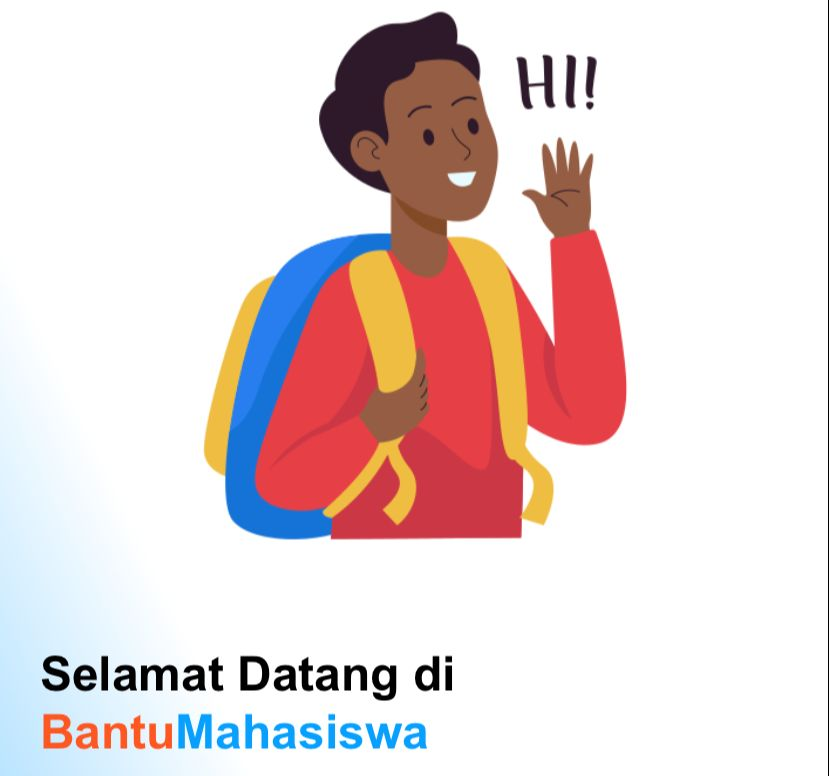
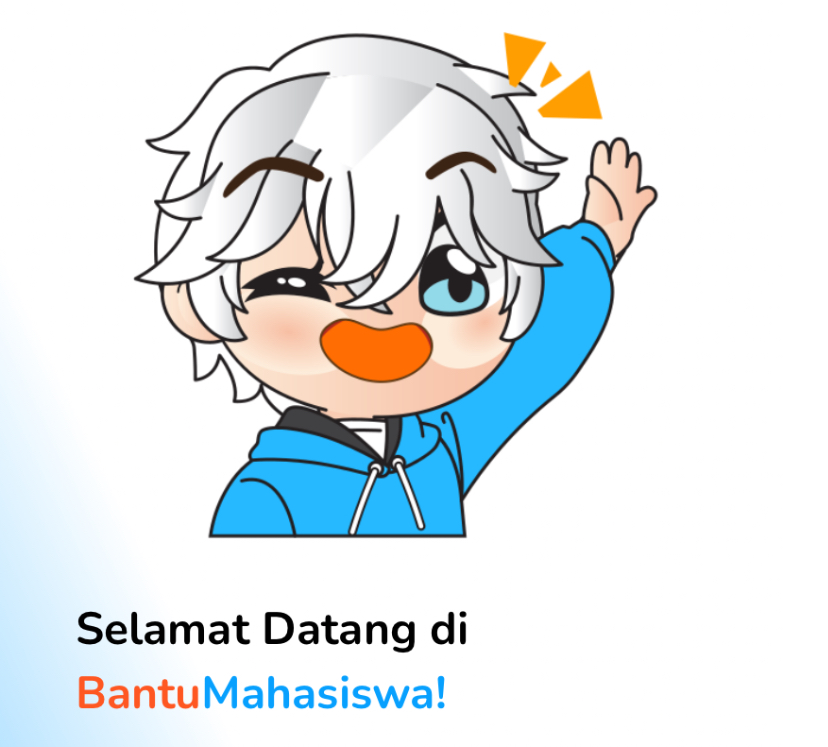
refactor: Remove duplicate content in Dashboard component

diff --git a/bantumahasiswa/src/dashboard.css b/bantumahasiswa/src/dashboard.css
@@ -9,13 +9,16 @@
   z-index: 1000;
   box-shadow: 0 2px 4px rgba(0, 0, 0, 0.1);
   backdrop-filter: blur(10px);
+  font-family: "Nunito", sans-serif;
 }
 
 .App-logo .highlight {
+  font-family: "Nunito", sans-serif;
   color: #07a0ff;
 }
 
 .App-logo .highlight_second {
+  font-family: "Nunito", sans-serif;
   color: #ff5722;
 }
 
@@ -99,11 +102,14 @@
 }
 
 .App-header-text {
+  font-family: "Nunito", sans-serif;
   margin: 20px;
 }
 
 .App-header h1 {
-  font-size: 2.5em;
+  font-family:"Nunito",sans-serif;
+  font-size: 3em;
+  margin: 0;
 }
 
 .App-header .highlight {
@@ -148,6 +154,7 @@
 }
 
 .App-help-button {
+  font-family: "Nunito", sans-serif;
   padding: 10px;
   font-size: 1em;
   color: white;
@@ -194,6 +201,7 @@
 }
 
 .App-more-button {
+  font-family: "Nunito", sans-serif;
   margin-top: 20px;
   background-color: white;
   padding: 10px;
@@ -251,6 +259,7 @@
   line-height: 1.6;
 }
 .App-content-services {
+  font-family: "Nunito", sans-serif;
   padding-top: 45px;
   padding-left: 20px;
   max-width: 100%;
@@ -258,6 +267,7 @@
   background-color: #f4f4f4;
 }
 .App-content-contact {
+  font-family: "Nunito", sans-serif;
   padding-top: 45px;
   padding-left: 20px;
   max-width: 100%;
@@ -265,9 +275,16 @@
   background-color: #dcdcdc;
 }
 .App-content-about {
+  font-family: "Nunito", sans-serif;
   padding-top: 45px;
   padding-left: 20px;
   max-width: 100%;
   height: 800px;
   background-color: #f4f4f4;
+}
+.App-content-copyright h4{
+  font-family: "Nunito", sans-serif;
+  text-align: center;
+  max-width: 100%;
+  height: 30px;
 }

diff --git a/bantumahasiswa/src/dashboard.js b/bantumahasiswa/src/dashboard.js
@@ -19,7 +19,7 @@ function Dashboard() {
       <Navbar />
       <header id="header" className="App-header">
         <div className="App-header-wrapper">
-          <img src="logo.png" alt="Landing" className="App-image" />
+          <img src="hi.png" alt="Landing" className="App-image" />
           <div className="App-header-text">
             <h1>Selamat Datang di <span className="highlight_second">Bantu</span><span className="highlight">Mahasiswa!</span></h1>
             <p>Platform untuk membantu mahasiswa dengan berbagai informasi dan layanan.</p>
@@ -49,6 +49,9 @@ function Dashboard() {
       </section>
       <section id="tentang/kami" className="App-content-about">
         <h2>Tentang Kami</h2>
+      </section>
+      <section id="hakcipta" className="App-content-copyright">
+        <h4>Copyright © 2024 BantuMahasiswa.</h4>
       </section>
     </div>
   );

diff --git a/bantumahasiswa/public/index.html b/bantumahasiswa/public/index.html
@@ -13,6 +13,10 @@
     <link rel="apple-touch-icon" href="%PUBLIC_URL%/banner.png" />
     <link rel="manifest" href="%PUBLIC_URL%/manifest.json" />
     <title>Bantu Mahasiswa - Membantu Selesaikan Tugasmu Dengan </title>
+    <link rel="preconnect" href="https://fonts.googleapis.com">
+    <link rel="preconnect" href="https://fonts.gstatic.com" crossorigin>
+    <link href="https://fonts.googleapis.com/css2?family=Nunito:ital,wght@0,200..1000;1,200..1000&display=swap"
+      rel="stylesheet">
   </head>
   <body>
     <div id="root"></div>
